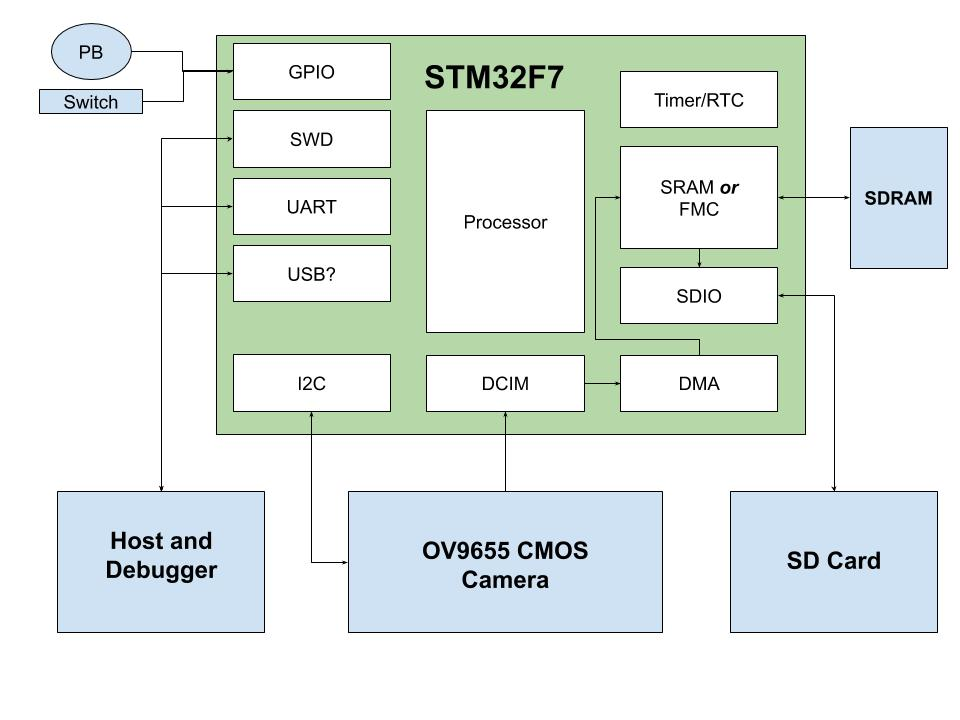
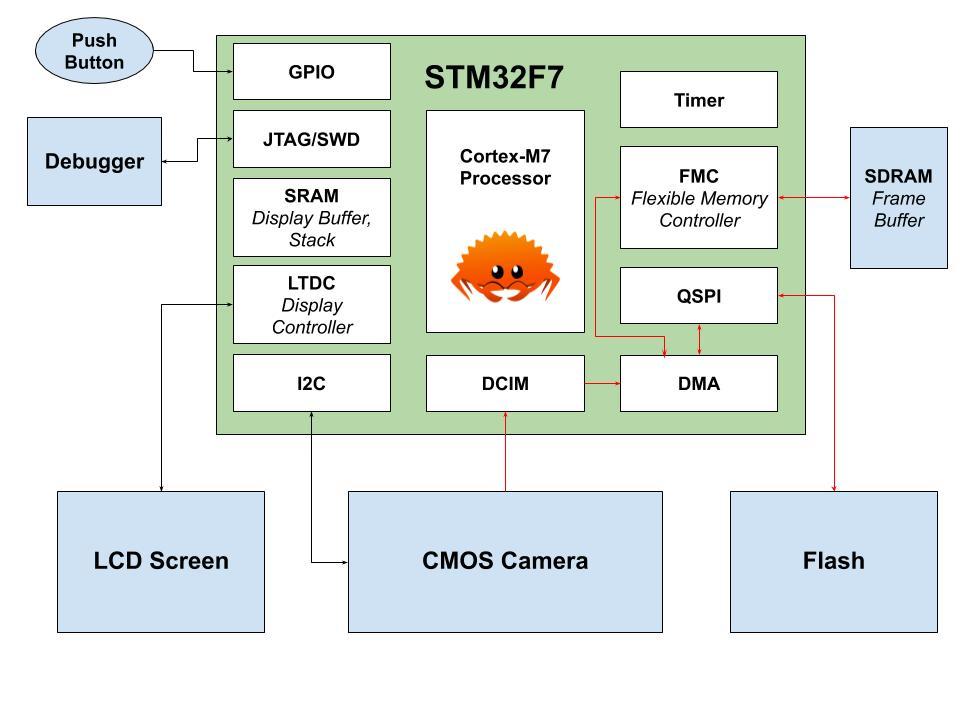
Start doc update

diff --git a/README.md b/README.md
@@ -1,77 +1,36 @@
 # dashcam-rs
 
-Car dashboard camera developed using embedded Rust.
+## Overview
+This project is a prototype for a car dashboard camera, created to learn more about the Rust programming language and the embedded Rust ecosystem. The prototype implements the basic functionality needed by a car dashcam:
+* Capture live video, with a display for preview.
+* Buffer past video, ideally several minutes of it.
+* Save buffered video to non-volatile memory on user intervention. For example, after a car accident.
 
-## Goals
-* Do a sizable project using embedded Rust, requiring:
-    * Some kind of framework or RTOS, like [RTIC](https://github.com/rtic-rs/cortex-m-rtic).
-    * Device driver development, maybe using [embedded-hal](https://github.com/rust-embedded/embedded-hal).
-* Build something I would actually use.
-    * I've always wanted a dash cam for my car.
-    * Many COTS dash cams have a pretty high price point ($100 - $200), I think I can do it for less.
-    * Many COTS dash cams have features I don't need or want (e.g. network upload).
+## Demo
+The STM32F746G Discovery Board board is used for the hardware platform with an OV9655 CMOS camera attached.
 
-## Conceptual Design
-The conceptual design is shown the diagram below. The image data path is shown on the arrows in the STM32F7.
+The dashcam buffers as many past frames as possible in SDRAM. On a user button press, the past frames are saved to flash memory. There is a small (~8 second) delay, as write operations for this particular flash device must be done one page at a time (256 bytes). On the next button press, the saved frames are read from flash into SDRAM and played continuously in a loop.
+
+## Embedded Rust Community
+This project relies heavily on a lot of great open-source software created by the embedded Rust community, including:
+* [RTIC](https://github.com/rtic-rs/cortex-m-rtic/): A small concurrency framework for Cortex-M processors, like a mini-RTOS.
+* [cortex-m](https://github.com/rust-embedded/cortex-m) and [cortex-m-rt](https://github.com/rust-embedded/cortex-m-rt): Low-level device support for Cortex-M processors.
+* [stm32f7xx-hal](https://github.com/stm32-rs/stm32f7xx-hal): Hardware abstraction layer (drivers) for the STM32F7 part family.
+* [embedded-hal](https://github.com/rust-embedded/embedded-hal): Hardware abstraction layer traits for common peripherals.
+* [embedded-graphics](https://github.com/embedded-graphics/embedded-graphics): 2D graphics library for embedded devices.
+
+Hopefully, this project adds the following contributions to the embedded Rust community:
+* [OV9655 device driver](src/ov9655)
+    * Abstract SCCB driver for device configuration using `embedded-hal`.
+    * Parallel interface driver for the STM32F746G using DCIM and DMA2, including live video capture with ping-pong DMA.
+* [QSPI flash driver](src/board/qspi.rs)
+    * A HAL driver for the QUADSPI peripheral on the STM32F746G. Supports indirect mode with polling or DMA.
+        * `TODO:`: Upstream to `stm32f7xx-hal`.
+    * A higher-level driver for the MT25QL128ABA QSPI flash device.
+
+## Hardware Architecture
 ![](img/design.jpg)
 
-* The dash cam will have 3 main modes of operation described below. It will also have some way of uploading video from the dash cam to a host (e.g. SD card, USB).
-    * `OFF` - Self explanatory.
-    * `ON` - Continuous recording mode.
-        * This is not the expected normal mode of operation, but may be useful for recording specific events.
-        * The user can `START` recording by pressing the push button and `STOP` recording by pressing the same push button.
-        * After stopping the recording, the dash cam will save the buffer to bulk storage and timestamp it.
-    * `STANDBY` - Continuous buffering mode.
-        * This is the expected mode of operation of the dash cam, when you want to record an incident or event.
-        * The dashcam will buffer N minutes of video (TBD or configurable).
-        * When the push button is pressed, the dash cam will `CAPTURE` the buffer to bulk storage and timestamp it.
-* Future enhancements:
-    * Custom PCB.
-    * Professional packaging.
-    * Use of a GPS to record location.
-    * Use of an accelerometer to record speed and/or transition from `OFF` to `STANDBY` automatically.
-    * Use of microcontroller low-power modes.
-    * Host software for uploading and organizing videos.
+## Software Architecture
 
-## High-Level Requirements
-
-### Features
-1. The dash cam shall provide the capability to continuously capture live video.
-2. The dash cam shall provide the capability to buffer N minutes of live video, prior to saving or discarding.
-3. The dash cam shall provide the capability to save the live video to bulk storage.
-4. The dash cam shall provide the capability to upload the video from bulk storage to a host device using a physical connection.
-5. The dash cam shall provide the user a push button to `START`, `STOP`, or `CAPTURE` the video stream.
-6. The dash cam shall provide the user a switch to change between `ON`, `OFF`, and `STANDBY` modes of operation.
-7. The dash cam shall provide the capability to timestamp all video saved to bulk storage.
-
-### Constraints
-1. The dash cam shall use an STM32F746NG microcontroller for all processing.
-    * __Rationale__: I have [experience using the STM32F7](https://github.com/bbrown1867/nucleof767zi-rs) family of devices.
-    * __Rationale__: There is a [development board for the STM32F746NG](https://www.st.com/en/evaluation-tools/32f746gdiscovery.html) that has SDRAM, QSPI flash, camera connector, and SD card connector.
-    * __Rationale__: This device is intended for high-performance embedded applications like audio/video.
-    * __Rationale__: This device contains hardware for video (DCIM) and bulk storage (QSPI, SDIO).
-2. The dash cam shall use an OV9655 color CMOS camera for video capture.
-    * __Rationale__: Compatible with DCIM on the STM32F746NG and example C code exists.
-    * __Rationale__: Has lots of desirable features like high resolution (1.3 MP), color, multiple output data formats, 30 fps.
-    * __Rationale__: Several development boards exist ([Waveshare](https://www.waveshare.com/ov9655-camera-board.htm), [STM32F4DIS-CAM](https://www.newark.com/stmicroelectronics/stm32f4dis-cam/module-1-3mp-camera-f4-discovery/dp/47W1732)) that will easily connect to a microcontroller development board.
-    * _Note: OmniVision does not market this product anymore and I can't find any sellers for the chip itself. This could be a problem when making a custom PCB. The only in-stock OmniVision product with the same parallel interface I could find on DigiKey was the OVM7692. However it has a much lower resolution and no datasheet in the public domain._
-
-## Low-Level Requirements (Tasks)
-1. OV9655 device driver development.
-    * Driver will involve three peripherals: I2C for configuration (SCCB), DCIM for capturing pixels, and DMA to transfer from DCIM to memory.
-    * DCIM driver does not currently exist in the [Rust HAL for STM32F7](https://github.com/stm32-rs/stm32f7xx-hal). Also the DMA driver in the Rust HAL does not support DCIM.
-    * SCCB portion should use `embedded-hal` traits to be easily portable.
-    * Any HAL improvements will be done in [my fork](https://github.com/bbrown1867/stm32f7xx-hal) and merged into upstream if it makes sense.
-    * Initial goal shall be to capture a low-quality (QVGA, RGB565) image into SRAM (320x240x2 = 153.6 KB).
-2. Continuous capture and frame buffering.
-    * The software will need to be extended to continuously capture frames and store in a frame buffer.
-    * Circular programming of DMA controller.
-    * Since anything remotely high-quality will be larger than on-chip SRAM (512 KB), off-chip memory (e.g. SDRAM) is needed.
-3. Write video to non-volatile memory.
-    * After the frame buffer is working, will need to save it to bulk storage on a user request.
-    * Seems like a filesystem will be needed here.
-    * Setup push button to trigger the save action.
-    * Timestamping functionality from microcontroller timer.
-4. Framework integration (e.g. RTIC).
-    * Eventually software design will get large enough where a framework or RTOS is needed.
-    * Create a software architecture and split into tasks, events, modules, etc.
+## Limitations and Next Steps

diff --git a/doc/dashcam_reqs.md b/doc/dashcam_reqs.md
@@ -1,0 +1,44 @@
+# Requirements
+
+## High-Level Requirements
+
+### Features
+1. The dash cam shall provide the capability to continuously capture live video.
+2. The dash cam shall provide the capability to buffer N minutes of live video, prior to saving or discarding.
+3. The dash cam shall provide the capability to save the live video to bulk storage.
+4. The dash cam shall provide the capability to upload the video from bulk storage to a host device using a physical connection.
+5. The dash cam shall provide the user a push button to `START`, `STOP`, or `CAPTURE` the video stream.
+6. The dash cam shall provide the user a switch to change between `ON`, `OFF`, and `STANDBY` modes of operation.
+7. The dash cam shall provide the capability to timestamp all video saved to bulk storage.
+
+### Constraints
+1. The dash cam shall use an STM32F746NG microcontroller for all processing.
+    * __Rationale__: I have [experience using the STM32F7](https://github.com/bbrown1867/nucleof767zi-rs) family of devices.
+    * __Rationale__: There is a [development board for the STM32F746NG](https://www.st.com/en/evaluation-tools/32f746gdiscovery.html) that has SDRAM, QSPI flash, camera connector, and SD card connector.
+    * __Rationale__: This device is intended for high-performance embedded applications like audio/video.
+    * __Rationale__: This device contains hardware for video (DCIM) and bulk storage (QSPI, SDIO).
+2. The dash cam shall use an OV9655 color CMOS camera for video capture.
+    * __Rationale__: Compatible with DCIM on the STM32F746NG and example C code exists.
+    * __Rationale__: Has lots of desirable features like high resolution (1.3 MP), color, multiple output data formats, 30 fps.
+    * __Rationale__: Several development boards exist ([Waveshare](https://www.waveshare.com/ov9655-camera-board.htm), [STM32F4DIS-CAM](https://www.newark.com/stmicroelectronics/stm32f4dis-cam/module-1-3mp-camera-f4-discovery/dp/47W1732)) that will easily connect to a microcontroller development board.
+    * _Note: OmniVision does not market this product anymore and I can't find any sellers for the chip itself. This could be a problem when making a custom PCB. The only in-stock OmniVision product with the same parallel interface I could find on DigiKey was the OVM7692. However it has a much lower resolution and no datasheet in the public domain._
+
+## Low-Level Requirements (Tasks)
+1. OV9655 device driver development.
+    * Driver will involve three peripherals: I2C for configuration (SCCB), DCIM for capturing pixels, and DMA to transfer from DCIM to memory.
+    * DCIM driver does not currently exist in the [Rust HAL for STM32F7](https://github.com/stm32-rs/stm32f7xx-hal). Also the DMA driver in the Rust HAL does not support DCIM.
+    * SCCB portion should use `embedded-hal` traits to be easily portable.
+    * Any HAL improvements will be done in [my fork](https://github.com/bbrown1867/stm32f7xx-hal) and merged into upstream if it makes sense.
+    * Initial goal shall be to capture a low-quality (QVGA, RGB565) image into SRAM (320x240x2 = 153.6 KB).
+2. Continuous capture and frame buffering.
+    * The software will need to be extended to continuously capture frames and store in a frame buffer.
+    * Circular programming of DMA controller.
+    * Since anything remotely high-quality will be larger than on-chip SRAM (512 KB), off-chip memory (e.g. SDRAM) is needed.
+3. Write video to non-volatile memory.
+    * After the frame buffer is working, will need to save it to bulk storage on a user request.
+    * Seems like a filesystem will be needed here.
+    * Setup push button to trigger the save action.
+    * Timestamping functionality from microcontroller timer.
+4. Framework integration (e.g. RTIC).
+    * Eventually software design will get large enough where a framework or RTOS is needed.
+    * Create a software architecture and split into tasks, events, modules, etc.

diff --git a/doc/dashcam_design.md b/doc/dashcam_design.md
@@ -1,0 +1,20 @@
+# Conceptual Design
+
+## Basic Operation
+The dash cam will have 3 main modes of operation described below. It will also have some way of uploading video from the dash cam to a host (e.g. SD card, USB).
+    * `OFF` - Self explanatory.
+    * `ON` - Continuous recording mode.
+        * This is not the expected normal mode of operation, but may be useful for recording specific events.
+        * The user can `START` recording by pressing the push button and `STOP` recording by pressing the same push button.
+        * After stopping the recording, the dash cam will save the buffer to bulk storage and timestamp it.
+    * `STANDBY` - Continuous buffering mode.
+        * This is the expected mode of operation of the dash cam, when you want to record an incident or event.
+        * The dashcam will buffer N minutes of video (TBD or configurable).
+        * When the push button is pressed, the dash cam will `CAPTURE` the buffer to bulk storage and timestamp it.
+
+## Future Enhancements
+* Custom PCB.
+* Professional packaging.
+* Use of a GPS to record location.
+* Use of an accelerometer to record speed and/or transition from `OFF` to `STANDBY` automatically.
+* Host software for uploading and organizing videos.
